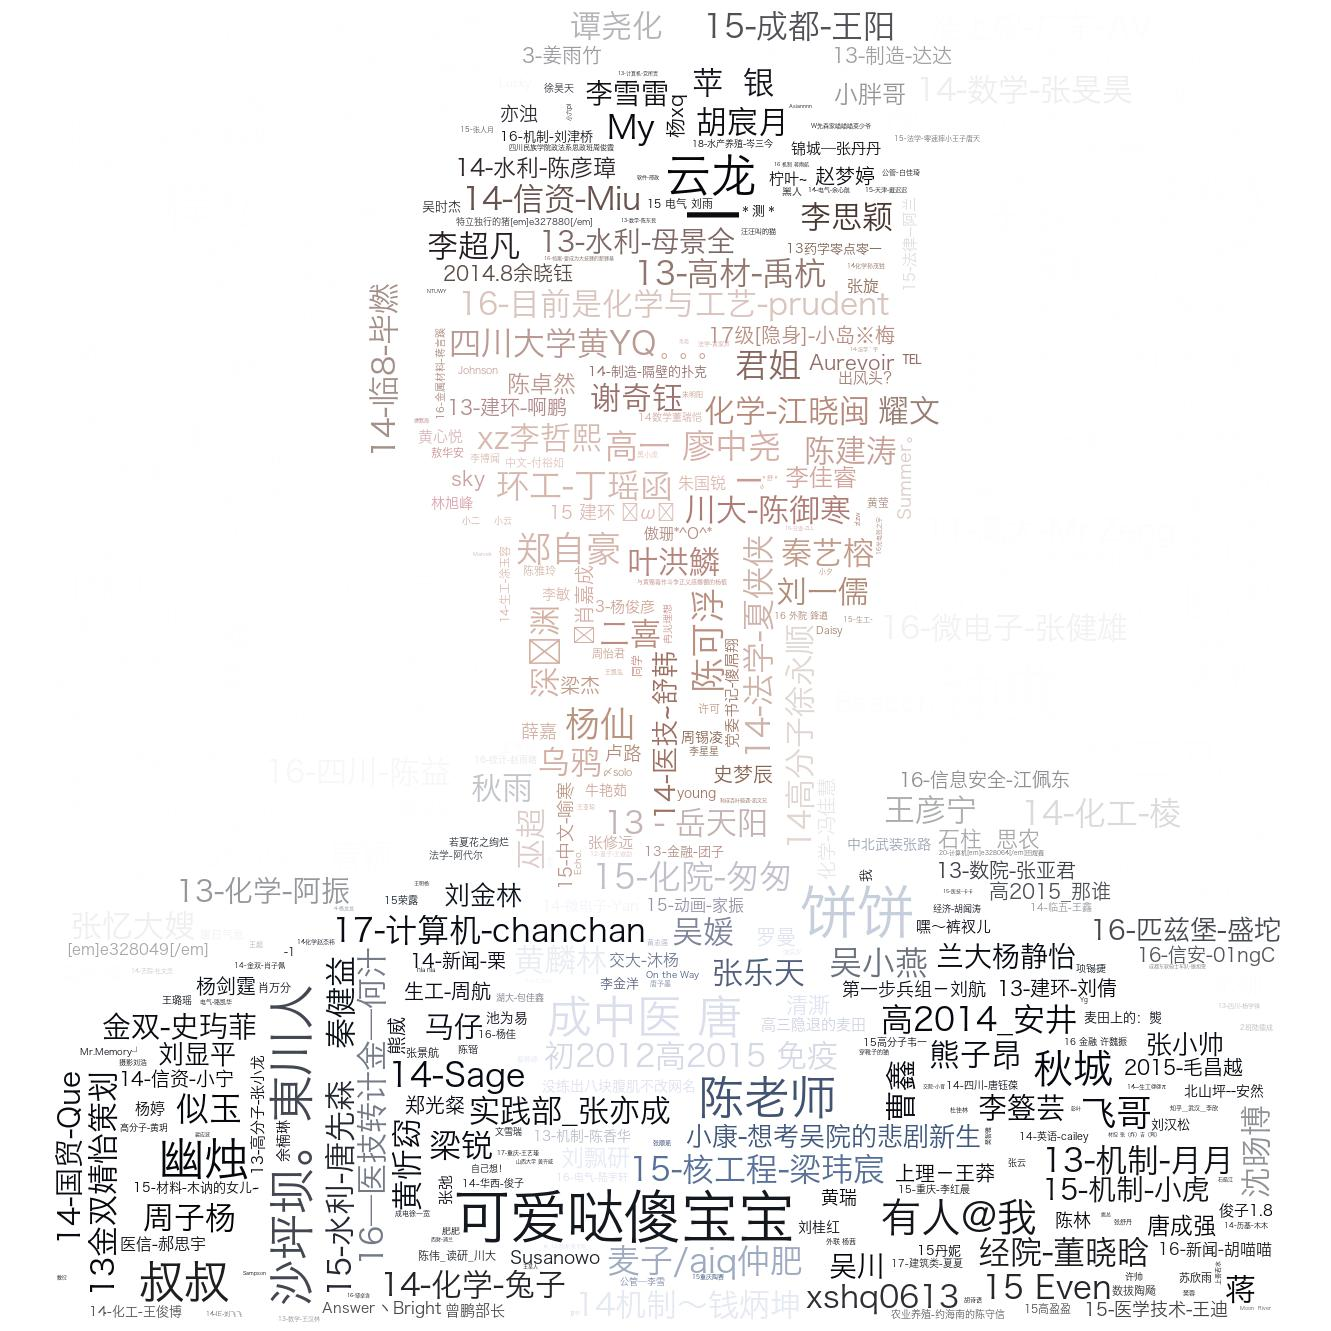
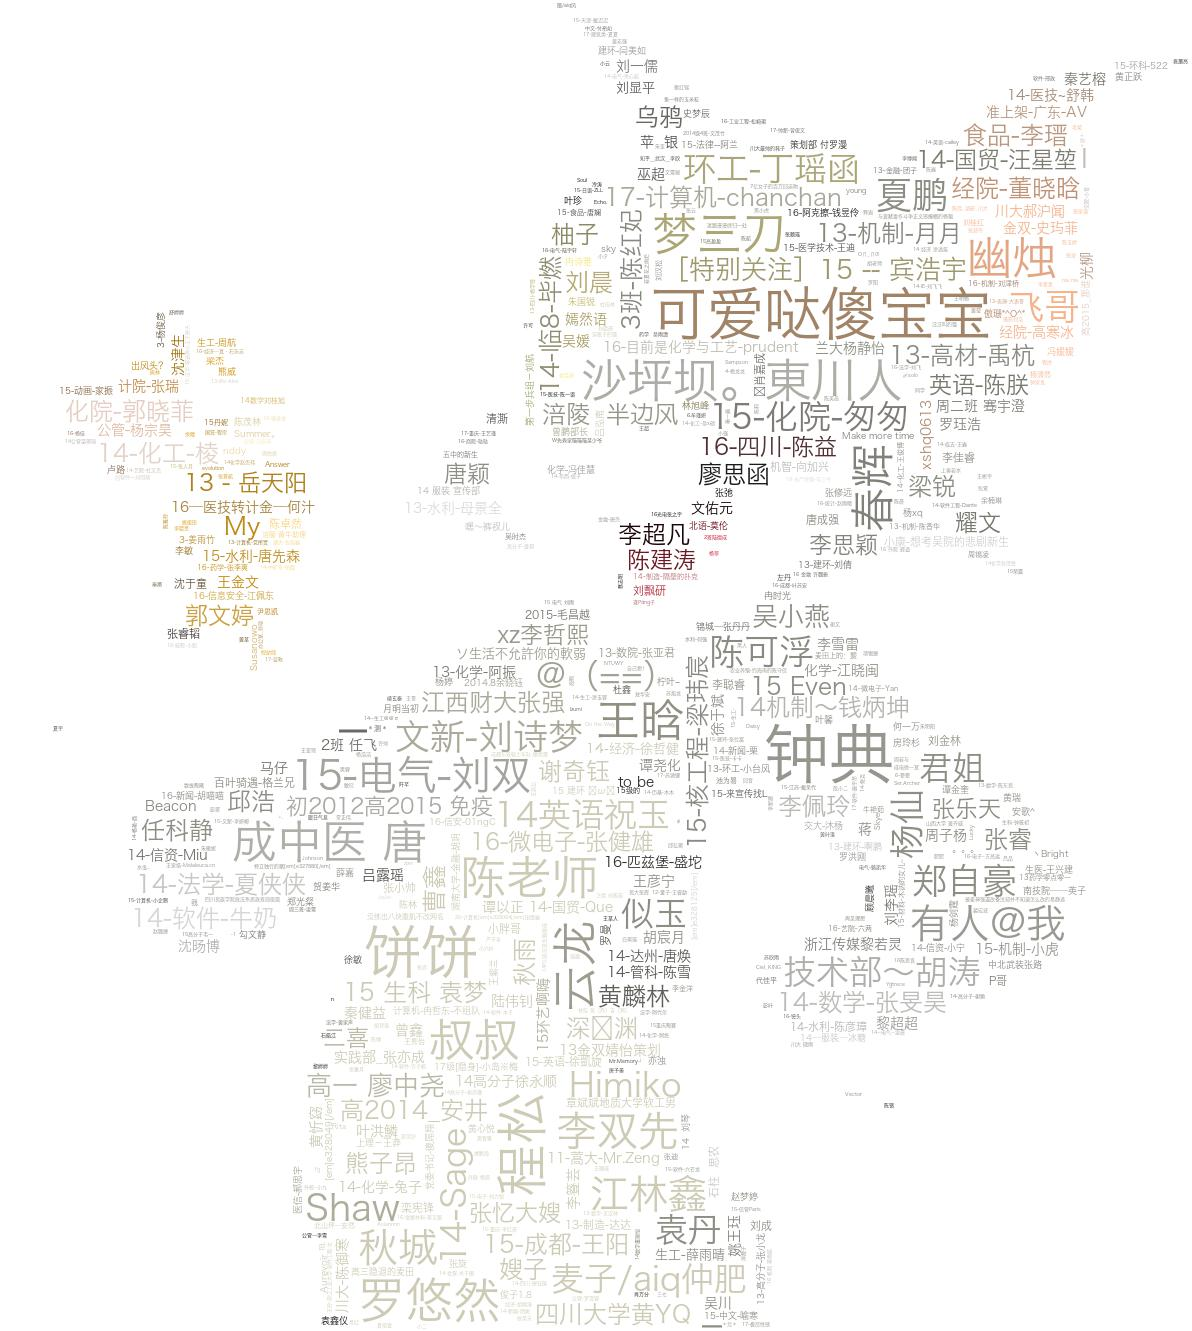
update

Changed region(s): [[0.031, 0.0, 0.9622, 1.0], [0.0621, 0.2156, 0.2794, 0.4929]]

diff --git a/QQZone/QQZoneSpider.py b/QQZone/QQZoneSpider.py
@@ -719,7 +719,8 @@ def capture_data():
     sp = QQZoneSpider(use_redis=True, debug=True, mood_begin=0, mood_num=-1,
                       stop_time='-1',
                       download_small_image=False, download_big_image=False,
-                      download_mood_detail=True, download_like_detail=True, download_like_names=True, recover=True)
+                      download_mood_detail=True, download_like_detail=True,
+                      download_like_names=True, recover=True)
     sp.login()
     sp.get_mood_list()
 

diff --git a/QQZone/QQZoneAnalysis.py b/QQZone/QQZoneAnalysis.py
@@ -278,6 +278,6 @@ if __name__ == '__main__':
     # analysis.save_data_to_excel()
     # analysis.export_label_data(analysis.mood_data_df)
     # analysis.export_all_label_data()
-    # analysis.calculate_content_cloud(analysis.mood_data_df)
-    # analysis.calculate_cmt_cloud(analysis.mood_data_df)
+    analysis.calculate_content_cloud(analysis.mood_data_df)
+    analysis.calculate_cmt_cloud(analysis.mood_data_df)
     analysis.calculate_like_cloud(analysis.mood_data_df)
